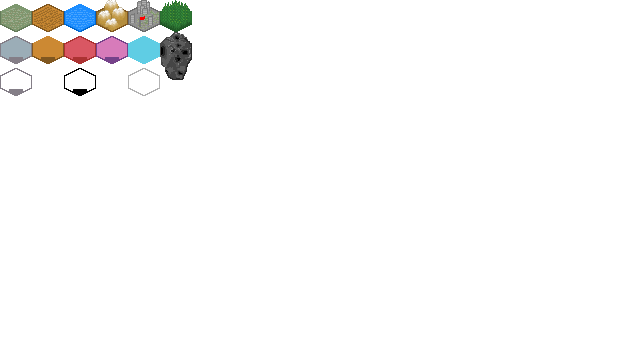
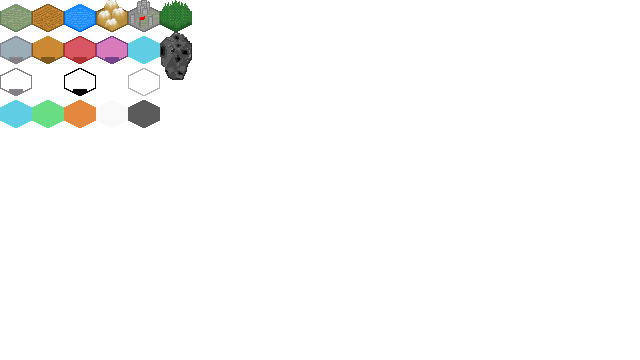
withinTwo and isExplored

Changed region(s): [[0.0, 0.275, 0.1562, 0.3667], [0.1875, 0.275, 0.25, 0.3667]]

diff --git a/js/classes/Cell.js b/js/classes/Cell.js
@@ -1,5 +1,6 @@
 import Weapon from './Weapon.js';
 import { globalSoundBoard, tileSheet } from '../main.js';
+import { currentLevel } from '../main.js';
 
 export default class Cell{
     constructor(name, indices, coordinates, terrain){
@@ -23,6 +24,7 @@ export default class Cell{
 
         this.terrain = terrain;
         this.status = "frozen"
+        this.isExplored = false;
     }
 
 
@@ -126,9 +128,10 @@ export default class Cell{
         if(this.isSpawnable()){
             creature.currentCell = this;
             this.creature = creature;
-            if(creature.name == "asteroid" || creature.name == "outpost"){
-                this.speed = 200;
-                this.depth = -300;
+            if(creature.name == "outpost"){
+                //this.speed = 200;
+                //this.depth = -300;
+                currentLevel.cellMap.withinTwo(this).forEach( cell => cell.isExplored = true);
             }
             this.isActive = true;
         }else{
@@ -195,7 +198,18 @@ export default class Cell{
 
     drawTerrain(context){
         try{
-            context.drawImage(tileSheet.getBuffer(this.terrain), this.coordinates.x, this.coordinates.y + (this.isActive?Math.ceil(this.depth):0));
+
+            const x = this.coordinates.x;
+            const y = this.coordinates.y + (this.isActive?Math.ceil(this.depth):0);
+            
+            context.drawImage(tileSheet.getBuffer(this.terrain), x, y );
+
+            //draw if explored
+            if(this.isExplored){
+                context.globalAlpha = 0.4;
+                context.drawImage(tileSheet.getBuffer('darkened'), x, y );
+                context.globalAlpha = 1;
+            }
         }catch(err){
             console.log("error on ", this.terrain);
         }
@@ -208,7 +222,7 @@ export default class Cell{
         //draw status conditions
         if(this.status === "frozen"){
             context.globalAlpha = 0.25;
-            context.drawImage(tileSheet.getBuffer('frozen'), this.coordinates.x, this.coordinates.y + Math.ceil(this.depth));
+            //context.drawImage(tileSheet.getBuffer('frozen'), this.coordinates.x, this.coordinates.y + Math.ceil(this.depth));
             context.globalAlpha = 1;
         }
 

diff --git a/js/classes/CellMap.js b/js/classes/CellMap.js
@@ -105,6 +105,20 @@ export default class CellMap{
         ].filter((item) => item != null)
     }
 
+    //returns all cells within two spaces from the given cell. I'm sure there is a more efficient way to do this
+    withinTwo(cell){
+        let cells = this.adjacentTo(cell)
+
+        cells.forEach(adjCell => {
+            this.adjacentTo(adjCell).forEach(possibleCell => {
+                if( !cells.includes(possibleCell) ){
+                    cells.push(possibleCell);
+                }
+            });
+        });
+        return cells
+    }
+
     availableAdjacentTo(cell){
         return this.adjacentTo(cell).filter(cell => cell.isSpawnable());
     }

diff --git a/js/classes/Player.js b/js/classes/Player.js
@@ -14,6 +14,7 @@ export default class Player{
         this.unlocked.set("welder", true);
         this.unlocked.set("boxer", true);
         this.unlocked.set("dragon", true);
+        this.unlocked.set("outpost", true);
 
         this.startingEnergy = 50;
         this.energy = this.startingEnergy;

diff --git a/assets/characters/other/outpost/Outpost.js b/assets/characters/other/outpost/Outpost.js
@@ -5,7 +5,7 @@ export default class Outpost extends Creature{
     constructor(){
 
         super('outpost');
-        this.height = 48;
+        this.height = 32;
         this.width = 32;
         this.maxHealth = 10;
         this.health = this.maxHealth;
